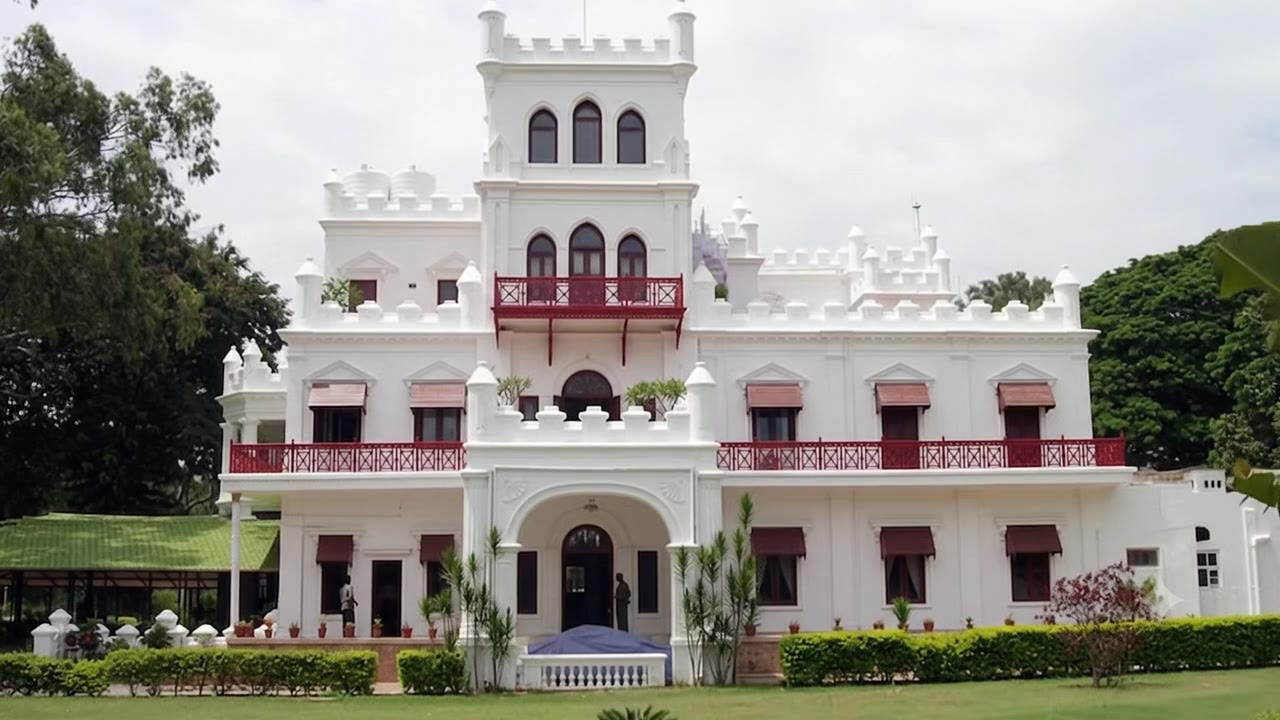
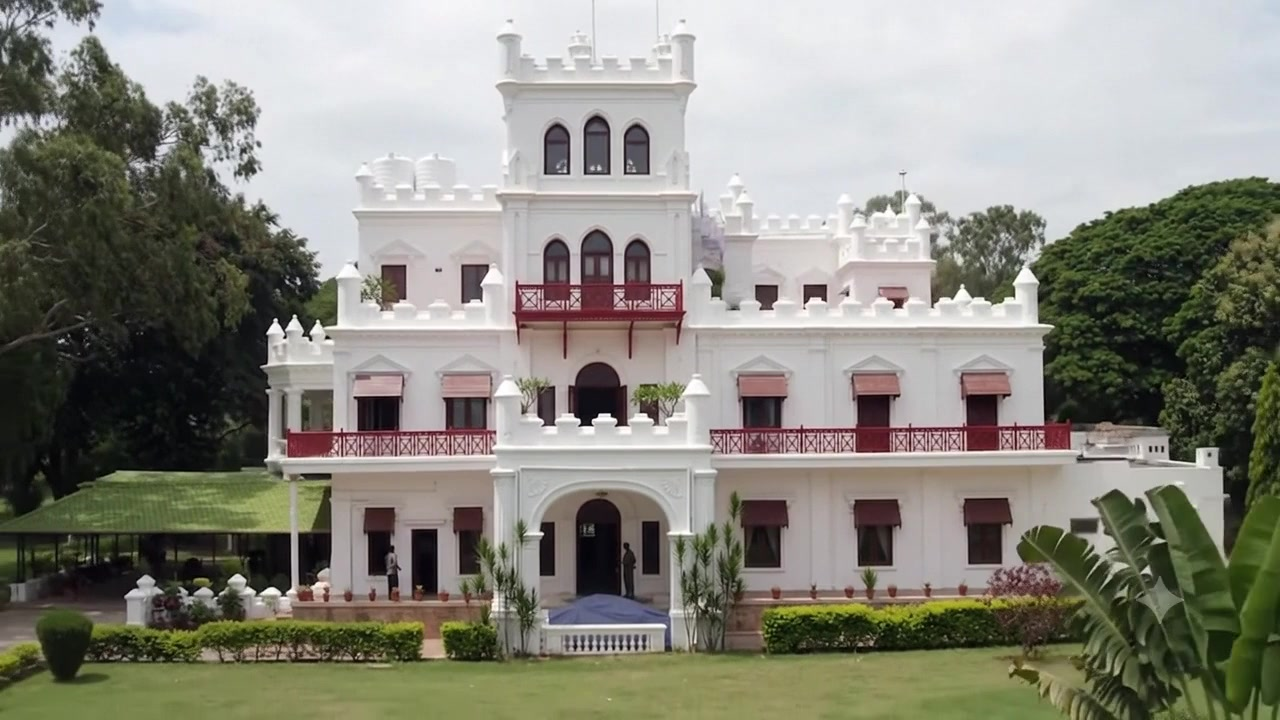
Fix video blurriness and add photorealistic AI images to Venues page

diff --git a/src/app/venues/page.tsx b/src/app/venues/page.tsx
@@ -23,9 +23,7 @@ export default function VenuesPage() {
             <Reveal delay={0.1}>
               <div className="flex flex-col items-center">
                 <div className="aspect-[4/3] w-full bg-[var(--jm-border)] rounded-md mb-6 overflow-hidden relative">
-                  <div className="absolute inset-0 flex items-center justify-center text-[var(--jm-muted)]">
-                    <svg className="w-16 h-16 opacity-20" fill="currentColor" viewBox="0 0 24 24"><path d="M21 19V5c0-1.1-.9-2-2-2H5c-1.1 0-2 .9-2 2v14c0 1.1.9 2 2 2h14c1.1 0 2-.9 2-2zM8.5 13.5l2.5 3.01L14.5 12l4.5 6H5l3.5-4.5z"/></svg>
-                  </div>
+                  <Image src="/media/gallery/wedding_ai.png" alt="Weddings & Receptions" fill className="object-cover hover:scale-105 transition-transform duration-500" />
                 </div>
                 <h3 className="font-display text-2xl mb-2 text-[var(--jm-primary)]">Weddings & Receptions</h3>
                 <p className="text-[var(--jm-muted)] text-sm">Grand baraats, open-air pheras and receptions with full decor freedom.</p>
@@ -35,9 +33,7 @@ export default function VenuesPage() {
             <Reveal delay={0.2}>
               <div className="flex flex-col items-center">
                 <div className="aspect-[4/3] w-full bg-[var(--jm-border)] rounded-md mb-6 overflow-hidden relative">
-                  <div className="absolute inset-0 flex items-center justify-center text-[var(--jm-muted)]">
-                    <svg className="w-16 h-16 opacity-20" fill="currentColor" viewBox="0 0 24 24"><path d="M21 19V5c0-1.1-.9-2-2-2H5c-1.1 0-2 .9-2 2v14c0 1.1.9 2 2 2h14c1.1 0 2-.9 2-2zM8.5 13.5l2.5 3.01L14.5 12l4.5 6H5l3.5-4.5z"/></svg>
-                  </div>
+                  <Image src="/media/gallery/corporate_ai.png" alt="Corporate Events" fill className="object-cover hover:scale-105 transition-transform duration-500" />
                 </div>
                 <h3 className="font-display text-2xl mb-2 text-[var(--jm-primary)]">Corporate Events</h3>
                 <p className="text-[var(--jm-muted)] text-sm">Product launches, offsites and gala dinners with a heritage backdrop.</p>
@@ -47,9 +43,7 @@ export default function VenuesPage() {
             <Reveal delay={0.3}>
               <div className="flex flex-col items-center">
                 <div className="aspect-[4/3] w-full bg-[var(--jm-border)] rounded-md mb-6 overflow-hidden relative">
-                  <div className="absolute inset-0 flex items-center justify-center text-[var(--jm-muted)]">
-                    <svg className="w-16 h-16 opacity-20" fill="currentColor" viewBox="0 0 24 24"><path d="M21 19V5c0-1.1-.9-2-2-2H5c-1.1 0-2 .9-2 2v14c0 1.1.9 2 2 2h14c1.1 0 2-.9 2-2zM8.5 13.5l2.5 3.01L14.5 12l4.5 6H5l3.5-4.5z"/></svg>
-                  </div>
+                  <Image src="/media/gallery/private_ai.png" alt="Private Celebrations" fill className="object-cover hover:scale-105 transition-transform duration-500" />
                 </div>
                 <h3 className="font-display text-2xl mb-2 text-[var(--jm-primary)]">Private Celebrations</h3>
                 <p className="text-[var(--jm-muted)] text-sm">Milestone birthdays, anniversaries and family gatherings at scale.</p>